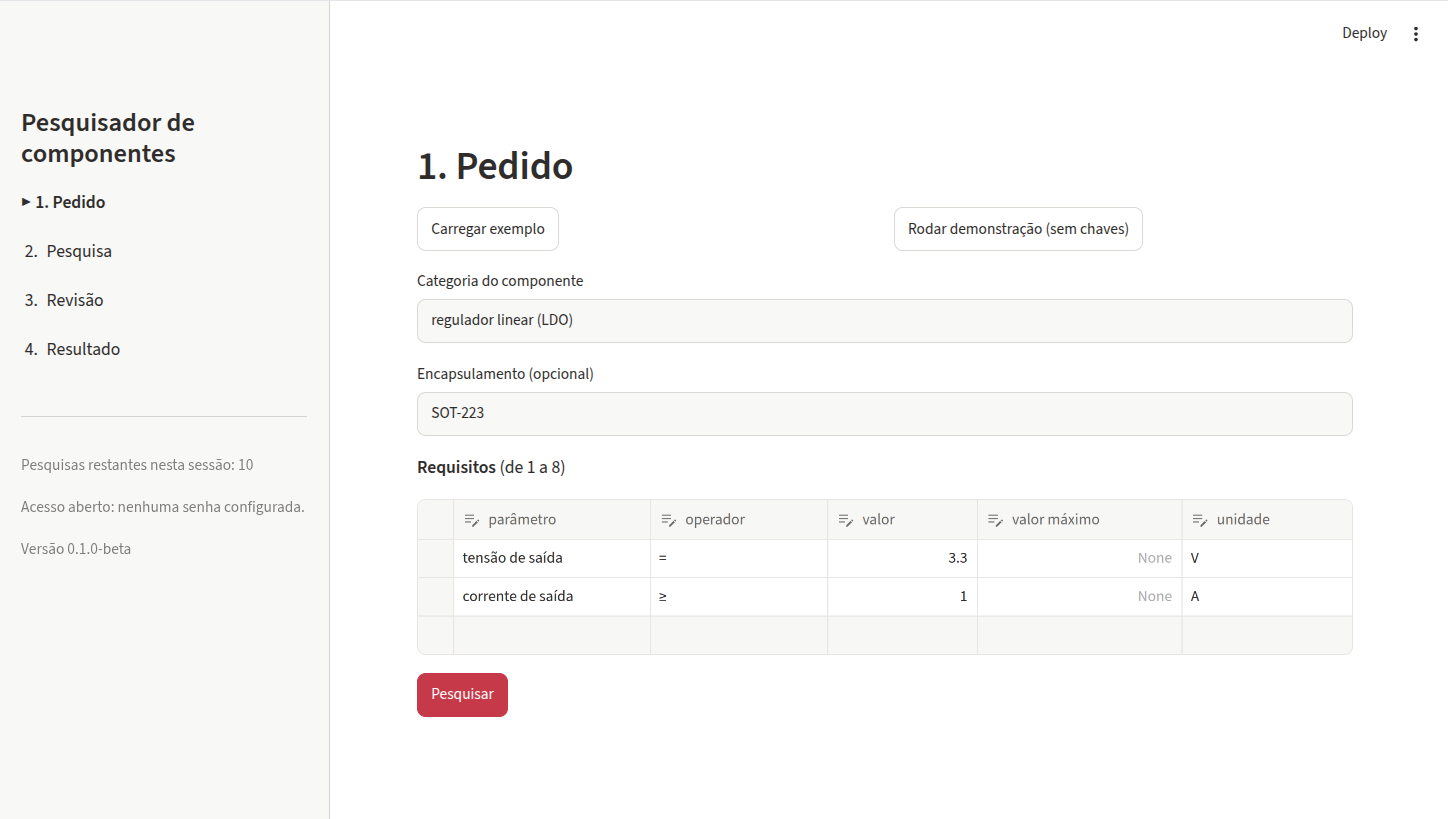
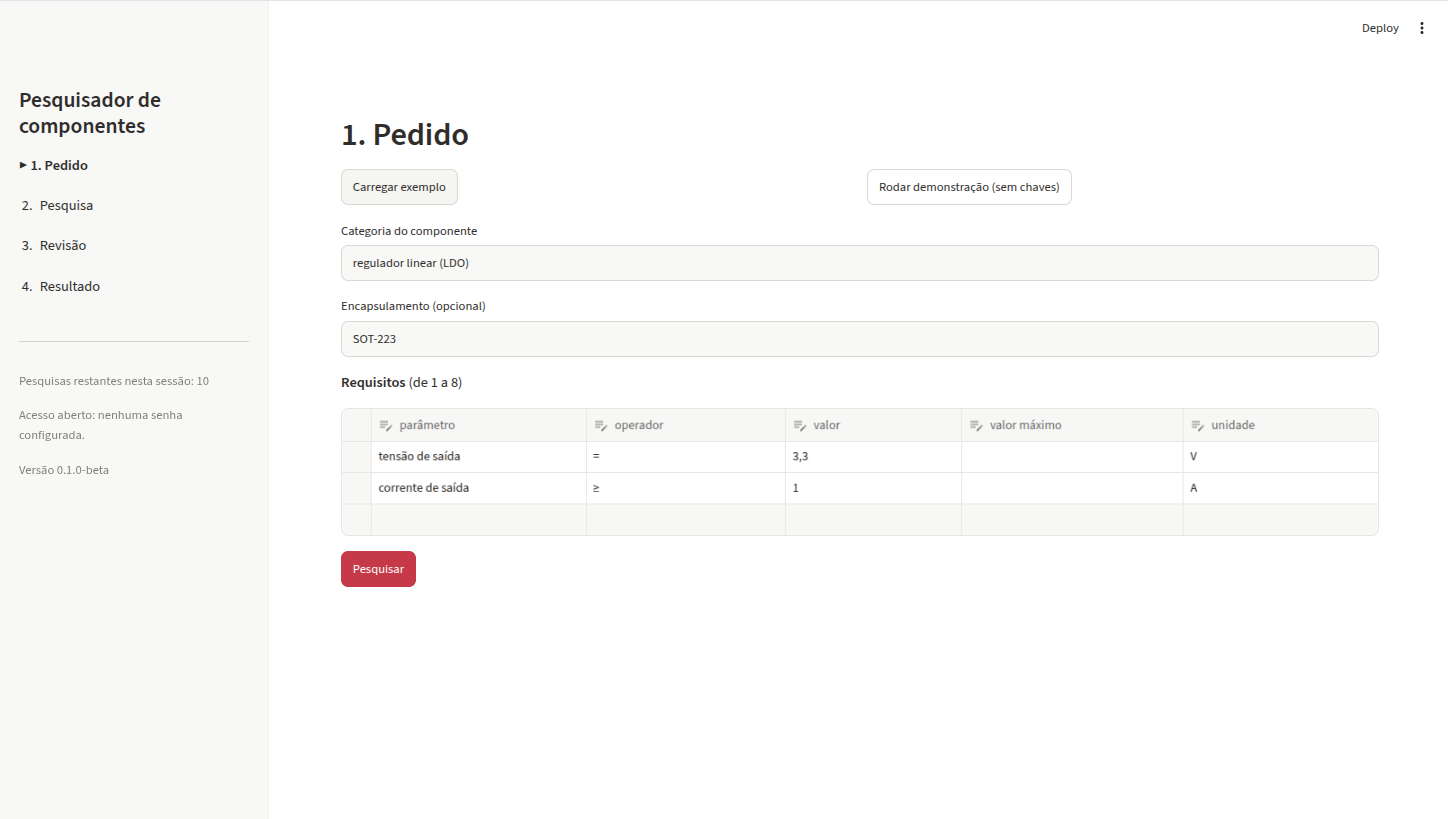
Adiciona documentação, licença e integração contínua
- README com demonstração sem chaves, passo a passo com chaves e limitações
- docs/arquitetura.md (diagramas) e docs/regras.md (regras de conferência)
- LICENSE (MIT), SECURITY.md, .env.example comentado e workflow de testes no GitHub
- Remove código sem uso (download seguro de imagens, funções órfãs)
- Capturas de tela da interface em docs/img

diff --git a/frontend/secoes/pedido.py b/frontend/secoes/pedido.py
@@ -27,19 +27,53 @@ CAMPO_DA_COLUNA = {"parametro": "parâmetro", "operador": "operador", "valor": "
 # ---------------------------------------------------------------------------------------------------------------------
 # Tabela de requisitos
 # ---------------------------------------------------------------------------------------------------------------------
+def _como_texto(valor) -> str:
+    """Um número para a célula, sem perder precisão e com vírgula: 3.3 -> "3,3"; 1.0 -> "1"; vazio -> ""."""
+    if _vazio(valor):
+        return ""
+    if isinstance(valor, (int, float)):
+        texto = repr(float(valor))  # repr: a forma mais curta que volta ao mesmo número (nada de arredondar)
+        return texto.removesuffix(".0").replace(".", ",")
+    return str(valor)
+
+
 def _tabela(linhas: list[dict]) -> pd.DataFrame:
-    """As colunas numéricas viram `float64`: o vazio delas é NaN, que o editor mostra EM BRANCO. (Com `None` numa coluna
-    de tipo genérico, o editor mostrava o texto "None".)"""
-    return pd.DataFrame(linhas, columns=COLUNAS).astype({"valor": "float64", "valor máximo": "float64"})
+    """A tabela do editor, com TODAS as colunas como texto e "" no vazio.
+
+    Por que texto também em "valor" e "valor máximo": a versão instalada do Streamlit desenha um número NULO como a
+    palavra "None" (sem opção para mudar). Uma célula de texto vazia ("") aparece em branco. A conversão para número é
+    feita no código, ao validar (`_numero`), e aceita vírgula ou ponto decimal.
+    """
+    tabela = pd.DataFrame(linhas, columns=COLUNAS)
+    for coluna in ("valor", "valor máximo"):
+        tabela[coluna] = tabela[coluna].map(_como_texto)
+    return tabela.fillna("").astype(str)
 
 
 def _tabela_vazia() -> pd.DataFrame:
-    return _tabela([{"parâmetro": "", "operador": "≥", "valor": None, "valor máximo": None, "unidade": ""}])
+    return _tabela([{"parâmetro": "", "operador": "≥", "valor": "", "valor máximo": "", "unidade": ""}])
 
 
 def _vazio(valor) -> bool:
     """Célula vazia? O editor devolve None, "" ou NaN ("not a number", o "vazio" das colunas numéricas do pandas)."""
     return valor is None or (isinstance(valor, float) and math.isnan(valor)) or (isinstance(valor, str) and not valor.strip())
+
+
+def _numero(texto):
+    """O texto de uma célula numérica para o modelo: "3,3" e "3.3" -> 3.3; vazio -> None (ausente).
+
+    Texto que não é número ("abc", "1.000,5") volta COMO ESTÁ: o Pydantic o recusa, e a mensagem traduzida em
+    `_traduzir` ("precisa ser um número (ex.: 3,3 ou 3.3)") aparece embaixo da tabela.
+    """
+    if _vazio(texto):
+        return None
+    if isinstance(texto, (int, float)):  # defensivo: uma tabela antiga, ainda numérica, no estado da sessão
+        return float(texto)
+    limpo = str(texto).strip()
+    try:
+        return float(limpo.replace(",", "."))  # vírgula decimal (padrão brasileiro) ou ponto
+    except ValueError:
+        return limpo
 
 
 def _requisitos_da_tabela(tabela: pd.DataFrame) -> list[dict]:
@@ -51,6 +85,8 @@ def _requisitos_da_tabela(tabela: pd.DataFrame) -> list[dict]:
         valores = {campo: (None if _vazio(linha.get(coluna)) else linha.get(coluna))
                    for campo, coluna in CAMPO_DA_COLUNA.items()}
         valores["operador"] = OPERADORES.get(valores["operador"], valores["operador"])
+        for campo in ("valor", "valor_max"):  # as células numéricas são texto: aqui viram número
+            valores[campo] = _numero(valores[campo])
         for campo in ("parametro", "unidade"):  # texto vazio vira "" (o modelo diz "não pode ficar vazio")
             valores[campo] = valores[campo] or ""
         requisitos.append(valores)
@@ -72,7 +108,9 @@ def _traduzir(erro: dict) -> str:
     if tipo == "too_long":
         return f"no máximo {ctx.get('max_length')} requisitos"
     if tipo in ("float_parsing", "float_type", "missing"):
-        return "precisa ser um número" if erro["loc"][-1] in ("valor", "valor_max") else "campo obrigatório"
+        if erro["loc"][-1] in ("valor", "valor_max"):
+            return "precisa ser um número (ex.: 3,3 ou 3.3)"
+        return "campo obrigatório"
     if tipo == "finite_number":
         return "precisa ser um número finito"
     if tipo == "literal_error":
@@ -222,9 +260,10 @@ def render() -> None:
             "parâmetro": st.column_config.TextColumn("parâmetro", max_chars=80),
             "operador": st.column_config.SelectboxColumn("operador", options=list(OPERADORES), required=True),
             # "localized": o número aparece no formato do navegador (no Brasil, com vírgula decimal).
-            "valor": st.column_config.NumberColumn("valor", format="localized"),
-            "valor máximo": st.column_config.NumberColumn("valor máximo", format="localized",
-                                                          help="só para o operador 'faixa'"),
+            # Texto, e não NumberColumn: assim a célula vazia aparece em branco (ver `_tabela`).
+            "valor": st.column_config.TextColumn("valor", max_chars=20, help="um número: 3,3 ou 3.3"),
+            "valor máximo": st.column_config.TextColumn("valor máximo", max_chars=20,
+                                                        help="só para o operador 'faixa' (ex.: 5 ou 5,5)"),
             "unidade": st.column_config.TextColumn("unidade", max_chars=16, help="ex.: V, mA, kΩ, MHz, °C"),
         },
     )

diff --git a/tests/test_planilha.py b/tests/test_planilha.py
@@ -52,11 +52,48 @@ class TestEstrutura(unittest.TestCase):
         aba = self.livro["Alternativas"]
         cabecalho, primeira = linhas(aba)[:2]
         self.assertEqual(cabecalho, ["Nº", "Fabricante", "MPN", "Ciclo de vida", "URL da fonte",
-                                     "tensão de saída (= 3,3 V)", "corrente de saída (>= 1 A)",
+                                     "tensão de saída (= 3,3 V)", "corrente de saída (≥ 1 A)",
                                      "Encapsulamento (SOT-223)"])
         self.assertEqual(primeira, [1, "Acme", "AC1117-3.3", "ativo", "https://acme.example/ac1117",
-                                    "3,3 V (confirmado)", "(indício)", "(confirmado)"])
+                                    "3,3 V (confirmado)", "(indício)", "SOT-223 (confirmado)"])
         self.assertEqual(aba.max_row, 3)  # cabeçalho + 2 componentes
+
+    def test_encapsulamento_so_aparece_quando_foi_achado(self):
+        casos = {
+            "confirmado": "SOT-223 (confirmado)",
+            "indicio": "SOT-223 (indício)",
+            "nao_encontrado": "(não encontrado)",  # o pedido NÃO é escrito como se tivesse sido achado
+            "contradiz": "(contradiz)",
+        }
+        for situacao, esperado in casos.items():
+            with self.subTest(situacao=situacao):
+                citacao = "" if situacao == "nao_encontrado" else "Package: SOT-89"
+                evidencia = {"requisito": "encapsulamento", "situacao": situacao, "citacao": citacao}
+                livro = abrir(gp.gerar_planilha(PEDIDO, [achado(evidencias=[evidencia])], "", []))
+                self.assertEqual(livro["Alternativas"]["H2"].value, esperado)
+        sem = abrir(gp.gerar_planilha(PEDIDO, [achado(evidencias=[])], "", []))
+        self.assertEqual(sem["Alternativas"]["H2"].value, "sem evidência")
+
+    def test_operadores_padronizados_e_sem_formula(self):
+        requisitos = [
+            {"parametro": "tensão", "operador": "=", "valor": 3.3, "unidade": "V"},
+            {"parametro": "corrente", "operador": ">=", "valor": 1, "unidade": "A"},
+            {"parametro": "queda", "operador": "<=", "valor": 1.2, "unidade": "V"},
+            {"parametro": "entrada", "operador": "faixa", "valor": 4.5, "valor_max": 15, "unidade": "V"},
+        ]
+        pedido = PedidoComponente(categoria="LDO", requisitos=requisitos)
+        livro = abrir(gp.gerar_planilha(pedido, [achado(evidencias=[])], "", []))
+        operadores = [linha[1] for linha in linhas(livro["Pedido e alertas"]) if linha[0] in ("tensão", "corrente",
+                                                                                              "queda", "entrada")]
+        self.assertEqual(operadores, ["igual (=)", "maior ou igual (≥)", "menor ou igual (≤)", "faixa"])
+        self.assertEqual(linhas(livro["Alternativas"])[0][5:9],
+                         ["tensão (= 3,3 V)", "corrente (≥ 1 A)", "queda (≤ 1,2 V)", "entrada (faixa 4,5 a 15 V)"])
+        for aba in livro.worksheets:  # nenhuma célula de nenhuma aba vira fórmula
+            for linha in aba.iter_rows():
+                for celula in linha:
+                    self.assertNotEqual(celula.data_type, "f", f"{aba.title}!{celula.coordinate}")
+                    if isinstance(celula.value, str):
+                        self.assertFalse(celula.value.startswith(gp._INICIO_DE_FORMULA), celula.value)
 
     def test_cores_por_situacao(self):
         aba = self.livro["Alternativas"]
@@ -74,7 +111,8 @@ class TestEstrutura(unittest.TestCase):
 
     def test_pedido_e_alertas(self):
         valores = [v for linha in linhas(self.livro["Pedido e alertas"]) for v in linha if v is not None]
-        for esperado in ("regulador linear (LDO)", "SOT-223", "tensão de saída", "igual a", "≥", "Dois LDOs.",
+        for esperado in ("regulador linear (LDO)", "SOT-223", "tensão de saída", "igual (=)", "maior ou igual (≥)",
+                         "Dois LDOs.",
                          "alerta 1", "(nenhum)", "(sem comentário)"):  # sem recusados nem comentário da LLM
             self.assertIn(esperado, valores)
 

diff --git a/tests/test_frontend.py b/tests/test_frontend.py
@@ -115,17 +115,66 @@ class TestPedido(BaseApp):
         at = self.clicar(self.abrir(), "botao_exemplo")
         (editor,) = at.get("dataframe")  # o `st.data_editor` aparece no AppTest como um elemento "dataframe"
         tabela = pa.ipc.open_stream(editor.proto.arrow_data.data).read_all()  # os dados que vão ao navegador (Arrow)
-        self.assertTrue(pa.types.is_floating(tabela.schema.field("valor máximo").type))  # número, não texto
-        self.assertEqual(tabela.column("valor máximo").to_pylist(), [None, None])  # nulo = célula em branco
+        # O Streamlit instalado desenha um NULO como a palavra "None"; um texto vazio ("") aparece em branco.
+        self.assertEqual(tabela.column("valor máximo").to_pylist(), ["", ""])  # texto vazio, não nulo
+        self.assertEqual(tabela.column("valor").to_pylist(), ["3,3", "1"])  # com vírgula decimal
         celulas = [v for linha in tabela.to_pylist() for v in linha.values()]
-        self.assertNotIn("None", celulas)  # nenhuma célula com o TEXTO "None" (o defeito antigo)
+        self.assertNotIn(None, celulas)  # nenhum nulo (que viraria "None" na tela)...
+        self.assertNotIn("None", celulas)  # ...nem o texto "None"
         self.assertEqual(tabela.column("operador").to_pylist(), ["=", "≥"])
+
+    def test_valor_que_nao_e_numero_mostra_erro_claro(self):
+        from frontend.secoes import pedido as secao
+
+        tabela = secao._tabela([{"parâmetro": "tensão", "operador": "≥", "valor": "abc", "valor máximo": "",
+                                 "unidade": "V"}])
+        at = self.abrir(**{estado.REQUISITOS_BASE: tabela, estado.PEDIDO_TOCADO: True,
+                           estado.CAMPO_CATEGORIA: "LDO", estado.COPIA_CATEGORIA: "LDO"})
+        self.assertTrue(at.button(key="botao_pesquisar").disabled)
+        self.assertIn("Requisito 1, valor: precisa ser um número (ex.: 3,3 ou 3.3)", [e.value for e in at.error])
 
     def test_apagar_a_categoria_volta_a_desabilitar(self):
         at = self.clicar(self.abrir(), "botao_exemplo")
         at.text_input(key=estado.CAMPO_CATEGORIA).set_value("   ").run()
         self.assertTrue(at.button(key="botao_pesquisar").disabled)
         self.assertIn("Categoria: não pode ficar vazio", [e.value for e in at.error])
+
+
+class TestNumerosDaTabela(unittest.TestCase):
+    """A conversão das células de texto ("3,3") para número, ao validar o pedido."""
+
+    def montar(self, valor, valor_max=""):
+        from frontend.secoes import pedido as secao
+
+        operador = "faixa" if valor_max else "≥"
+        tabela = secao._tabela([{"parâmetro": "tensão", "operador": operador, "valor": valor, "valor máximo": valor_max,
+                                 "unidade": "V"}])
+        return secao.montar_pedido("LDO", "", tabela)
+
+    def test_virgula_e_ponto_viram_o_mesmo_numero(self):
+        for texto in ("3,3", "3.3", " 3,3 "):
+            with self.subTest(texto=texto):
+                pedido, erros = self.montar(texto)
+                self.assertEqual(erros, {})
+                self.assertEqual(pedido.requisitos[0].valor, 3.3)
+
+    def test_faixa_com_valor_maximo(self):
+        pedido, _ = self.montar("4,5", "5.5")
+        self.assertEqual((pedido.requisitos[0].valor, pedido.requisitos[0].valor_max), (4.5, 5.5))
+
+    def test_texto_que_nao_e_numero_e_recusado_com_mensagem_clara(self):
+        for texto in ("abc", "1.000,5", "3,3 V"):
+            with self.subTest(texto=texto):
+                pedido, erros = self.montar(texto)
+                self.assertIsNone(pedido)
+                self.assertEqual(erros["requisitos"], ["Requisito 1, valor: precisa ser um número (ex.: 3,3 ou 3.3)"])
+
+    def test_vazio_e_ausente(self):
+        pedido, erros = self.montar("")
+        self.assertIsNone(pedido)
+        self.assertIn("Requisito 1, valor: precisa ser um número (ex.: 3,3 ou 3.3)", erros["requisitos"])
+        pedido, _ = self.montar("3,3", "")  # valor máximo vazio = ausente (o operador aqui não é faixa)
+        self.assertIsNone(pedido.requisitos[0].valor_max)
 
 
 class TestFluxoCompleto(BaseApp):

diff --git a/backend/planilhas/gera_planilha.py b/backend/planilhas/gera_planilha.py
@@ -47,8 +47,13 @@ CORES_SITUACAO = {
     "contradiz": "FFC7CE",  # vermelho claro
     "nao_encontrado": "E7E6E6",  # cinza claro
 }
-# Como mostrar cada operador ao leitor ("=" sozinho numa célula pareceria o início de uma fórmula).
-ROTULOS_OPERADOR = {">=": "≥", "<=": "≤", "=": "igual a", "faixa": "faixa"}
+# Como mostrar cada operador. Numa célula SOZINHO, um "=" seria o início de uma fórmula (e a proteção o mostraria como
+# "'="); por isso a aba do pedido usa rótulos com texto, que nunca começam com um caractere de fórmula. No meio de um
+# texto (o cabeçalho "tensão de saída (= 3,3 V)"), o símbolo é seguro.
+ROTULOS_OPERADOR = {">=": "maior ou igual (≥)", "<=": "menor ou igual (≤)", "=": "igual (=)", "faixa": "faixa"}
+SIMBOLOS_OPERADOR = {">=": "≥", "<=": "≤", "=": "=", "faixa": "faixa"}
+# Situações em que o valor pedido FOI achado: só nelas a célula pode repeti-lo (ver `_celula_de_requisito`).
+_SITUACOES_QUE_ACHARAM = ("confirmado", "indicio")
 _CABECALHO_FONTE = Font(bold=True)
 _CABECALHO_FUNDO = PatternFill("solid", fgColor="D9E1F2")  # azul acinzentado
 _QUEBRA = Alignment(wrap_text=True, vertical="top")
@@ -112,12 +117,19 @@ def _evidencia_de(achado: AchadoComponente, nomes: set[str]) -> EvidenciaRequisi
     return next((e for e in achado.evidencias if normalizar_texto(e.requisito) in nomes), None)
 
 
-def _celula_de_requisito(evidencia: EvidenciaRequisito | None) -> str:
-    """O texto da célula de um requisito: "3,3 V (confirmado)", "(indício)" ou "sem evidência"."""
+def _celula_de_requisito(evidencia: EvidenciaRequisito | None, pedido_sem_numero: str | None = None) -> str:
+    """O texto da célula de um requisito: "3,3 V (confirmado)", "(indício)" ou "sem evidência".
+
+    `pedido_sem_numero`: o que foi pedido, para requisitos sem valor numérico (o encapsulamento, ex.: "SOT-223"). Ele
+    só é escrito quando a evidência diz que FOI achado (confirmado ou indício): "SOT-223 (confirmado)". Com
+    "não encontrado" ou "contradiz", escrever "SOT-223" faria parecer que o encapsulamento pedido apareceu.
+    """
     if evidencia is None:
         return "sem evidência"
     rotulo = f"({ROTULOS_SITUACAO[evidencia.situacao]})"
     if evidencia.valor is None:
+        if pedido_sem_numero and evidencia.situacao in _SITUACOES_QUE_ACHARAM:
+            return f"{pedido_sem_numero} {rotulo}"
         return rotulo
     unidade = f" {evidencia.unidade}" if evidencia.unidade else ""
     return f"{_numero_br(evidencia.valor)}{unidade} {rotulo}"
@@ -129,7 +141,7 @@ def _celula_de_requisito(evidencia: EvidenciaRequisito | None) -> str:
 def _aba_alternativas(aba: Worksheet, pedido: PedidoComponente, achados: list[AchadoComponente]) -> None:
     fixas = ["Nº", "Fabricante", "MPN", "Ciclo de vida", "URL da fonte"]
     requisitos = [
-        f"{r.parametro} ({r.operador} {_numero_br(r.valor)}"
+        f"{r.parametro} ({SIMBOLOS_OPERADOR[r.operador]} {_numero_br(r.valor)}"
         + (f" a {_numero_br(r.valor_max)}" if r.valor_max is not None else "")
         + f" {r.unidade})"
         for r in pedido.requisitos
@@ -141,7 +153,9 @@ def _aba_alternativas(aba: Worksheet, pedido: PedidoComponente, achados: list[Ac
         evidencias = [_evidencia_de(achado, {normalizar_texto(r.parametro)}) for r in pedido.requisitos]
         if pedido.encapsulamento:
             evidencias.append(_evidencia_de(achado, NOMES_ENCAPSULAMENTO))
-        celulas = [_celula_de_requisito(e) for e in evidencias]
+        celulas = [_celula_de_requisito(e) for e in evidencias[: len(pedido.requisitos)]]
+        if pedido.encapsulamento:  # a última coluna: o encapsulamento pedido, quando a evidência diz que foi achado
+            celulas.append(_celula_de_requisito(evidencias[-1], pedido_sem_numero=pedido.encapsulamento))
         _escrever_linha(aba, [numero, achado.fabricante, achado.mpn, achado.ciclo_de_vida, achado.url, *celulas])
         for deslocamento, evidencia in enumerate(evidencias):
             _pintar(aba.cell(row=aba.max_row, column=len(fixas) + 1 + deslocamento), evidencia and evidencia.situacao)

diff --git a/README.md b/README.md
@@ -5,9 +5,9 @@ pelo código.
 
 ![testes](https://github.com/<usuario>/<repositorio>/actions/workflows/testes.yml/badge.svg)
 
-| Pedido | Revisão |
-|---|---|
-| ![Etapa 1: o pedido](docs/img/pedido.png) | ![Etapa 3: a revisão das provas](docs/img/revisao.png) |
+| Etapa 1: o pedido | Etapa 2: a atividade ao vivo | Etapa 3: a revisão das provas |
+|---|---|---|
+| ![Etapa 1: o pedido](docs/img/pedido.png) | ![Etapa 2: a atividade ao vivo](docs/img/pesquisa.png) | ![Etapa 3: a revisão das provas](docs/img/revisao.png) |
 
 ## Por que este projeto existe
 
@@ -90,7 +90,7 @@ as etapas diz que é uma demonstração, e a planilha gerada leva o mesmo aviso.
    python3.12 -m venv .venv
    source .venv/bin/activate          # no Windows: .venv\Scripts\activate
    ```
-4. **Instale as dependências**: `pip install -r requirements.txt`
+4. **Instale as dependências**: `pip install -r requirements.txt` (as versões são as testadas, fixadas com `==`)
 5. **Crie o seu `.env`** a partir do modelo: `cp .env.example .env`
 6. **Crie as duas chaves**:
    - **Together AI** (a LLM do agente): crie uma conta em together.ai e gere uma chave de API nas configurações da
@@ -180,8 +180,9 @@ As da conferência estão detalhadas em [docs/regras.md](docs/regras.md#limitaç
 6. O resultado varia entre execuções com o mesmo pedido.
 7. O limite de pesquisas por sessão é um freio, não uma cota.
 
-Além disso: as dependências do `requirements.txt` não têm versão fixa, e o estado da interface vive só na memória da
-sessão (fechar a aba perde a pesquisa; o pacote `.zip` é a forma de guardá-la).
+Além disso: o estado da interface vive só na memória da sessão (fechar a aba perde a pesquisa; o pacote `.zip` é a
+forma de guardá-la), e o projeto só foi testado com Python 3.12 e com as versões fixadas no `requirements.txt`
+(atualizá-las pede rodar a suíte de novo).
 
 ## Roadmap
 
@@ -224,7 +225,7 @@ frontend/
 exemplos/
   pedido_regulador.json   # um pedido de exemplo
   execucao_gravada.json   # a execução de referência, recortada (usada pela demonstração)
-docs/                   # arquitetura, regras de conferência e capturas de tela
+docs/                   # arquitetura, regras de conferência e capturas de tela (docs/img)
 tests/                  # testes unittest (sem rede, sem chaves)
 .streamlit/             # configuração do servidor e modelo do secrets.toml
 ```
